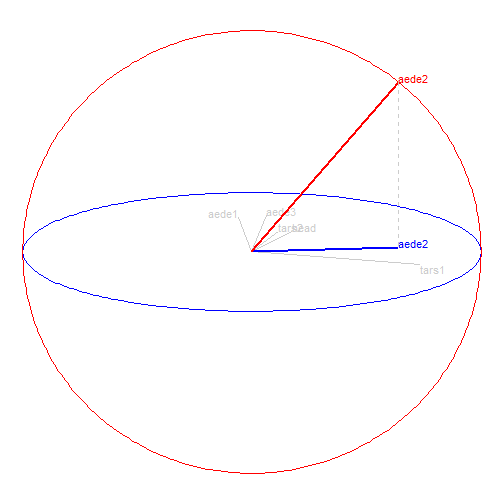
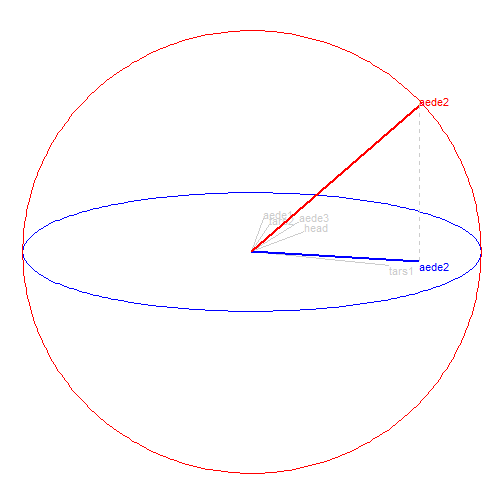
Wording, titles, RO2:4

diff --git a/slides_ns.html b/slides_ns.html
@@ -67,10 +67,10 @@ guided tour - optimizing holes index:
 
 # Research objectives
 
-- 1) Can user controlled steering (UCS) be utilized in an environment providing non-interactive animation?
-- 2) What benefits does UCS provide over popular alternatives?
+- 1) How can user-controlled steering (UCS) be generalized to work within graphic-specific environments for 2D projections?
+- 2) Does 2D UCS tours provide benefits over alternatives?
 - 3) How do we extend UCS to 3D?
-- 4) Does UCS with 3D displays provide perception benefits over 2D displays?
+- 4) Does UCS in 3D displays provide benefits over 2D displays?
 
 ---
 
@@ -79,7 +79,7 @@ guided tour - optimizing holes index:
 - Manual choice - *manual tour* user-controlled manipulation of a selected variable *Cook &amp; Buja 1997*
     - Used to explore the sensitivty of the structure to the variables contributing to the porjection
     
-*Work in progress &amp; paper to be submitted to the R Journal:*
+*Algorithm design, work in progress &amp; paper to be submitted to the R Journal:*
 - Algorithm generalising for consumption by graphic envirnments
 - R implementation via the package `spinifex`, available on [github.com/nspyrison/spinifex](https://github.com/nspyrison/spinifex)
     `devtools::install_github("nspyrison/spinifex")`
@@ -111,33 +111,33 @@ guided tour - optimizing holes index:
 &lt;tbody&gt;
   &lt;tr&gt;
    &lt;td style="text-align:left;"&gt; tars1 &lt;/td&gt;
-   &lt;td style="text-align:right;"&gt; 0.7334 &lt;/td&gt;
-   &lt;td style="text-align:right;"&gt; -0.2182 &lt;/td&gt;
+   &lt;td style="text-align:right;"&gt; 0.6011 &lt;/td&gt;
+   &lt;td style="text-align:right;"&gt; -0.2236 &lt;/td&gt;
   &lt;/tr&gt;
   &lt;tr&gt;
    &lt;td style="text-align:left;"&gt; tars2 &lt;/td&gt;
-   &lt;td style="text-align:right;"&gt; 0.1176 &lt;/td&gt;
-   &lt;td style="text-align:right;"&gt; 0.3492 &lt;/td&gt;
+   &lt;td style="text-align:right;"&gt; 0.0765 &lt;/td&gt;
+   &lt;td style="text-align:right;"&gt; 0.4579 &lt;/td&gt;
   &lt;/tr&gt;
   &lt;tr&gt;
    &lt;td style="text-align:left;"&gt; head &lt;/td&gt;
-   &lt;td style="text-align:right;"&gt; 0.1780 &lt;/td&gt;
-   &lt;td style="text-align:right;"&gt; 0.3475 &lt;/td&gt;
+   &lt;td style="text-align:right;"&gt; 0.2311 &lt;/td&gt;
+   &lt;td style="text-align:right;"&gt; 0.3425 &lt;/td&gt;
   &lt;/tr&gt;
   &lt;tr&gt;
    &lt;td style="text-align:left;"&gt; aede1 &lt;/td&gt;
-   &lt;td style="text-align:right;"&gt; -0.0610 &lt;/td&gt;
-   &lt;td style="text-align:right;"&gt; 0.5760 &lt;/td&gt;
+   &lt;td style="text-align:right;"&gt; 0.0481 &lt;/td&gt;
+   &lt;td style="text-align:right;"&gt; 0.5726 &lt;/td&gt;
   &lt;/tr&gt;
   &lt;tr&gt;
    &lt;td style="text-align:left;"&gt; aede2 &lt;/td&gt;
-   &lt;td style="text-align:right;"&gt; 0.6394 &lt;/td&gt;
-   &lt;td style="text-align:right;"&gt; 0.0832 &lt;/td&gt;
+   &lt;td style="text-align:right;"&gt; 0.7312 &lt;/td&gt;
+   &lt;td style="text-align:right;"&gt; -0.1567 &lt;/td&gt;
   &lt;/tr&gt;
   &lt;tr&gt;
    &lt;td style="text-align:left;"&gt; aede3 &lt;/td&gt;
-   &lt;td style="text-align:right;"&gt; 0.0641 &lt;/td&gt;
-   &lt;td style="text-align:right;"&gt; 0.6090 &lt;/td&gt;
+   &lt;td style="text-align:right;"&gt; 0.2062 &lt;/td&gt;
+   &lt;td style="text-align:right;"&gt; 0.5203 &lt;/td&gt;
   &lt;/tr&gt;
 &lt;/tbody&gt;
 &lt;/table&gt;
@@ -155,7 +155,7 @@ guided tour - optimizing holes index:
 
 .pull-right[
 &lt;br&gt;&lt;br&gt;
-- Use the Gram-Schmidt process to orthonormaliaze a dimension with a full contribution to the manipution variable
+- Orthonormaliaze a dimension with a full contribution to the manipution variable
 - This provides a means to rotate the basis out of the projection plane (for example, lifting paper off of the table rather than being confined to the surface)
 - Create a sequence of values for the 'out-of-plane' angle that will change the projection coeffienients of the variable
 ]
@@ -185,9 +185,9 @@ As an [html widget](https://nspyrison.netlify.com/thesis/flea_manualtour_mvar5/)
 
 ---
 
-# UCS Application -- Hadronic collision experiments
+# Application -- high erergy physics
 
-Particle physics data, `\(\textbf{X} \in \mathbb{R}^{56}\)`, *Wang, et al. 2018*, guided tours *Cook, et al. 2018*
+Hadronic collision experiment data, `\(\textbf{X} \in \mathbb{R}^{56}\)`, *Wang, et al. 2018*, studied with guided tours *Cook, et al. 2018*
 
 .pull-left[
 
@@ -201,7 +201,7 @@ Given:
 - Data summarized in 6 principal components, ~48% of the variation
 - Starting basis from previously published figures
 
-Results:
+Conclusion, PC6 is important for explaing structure features in the data:
 - When the contribution of PC6 is full, the plane of green points extends into the line of sight
 - When the contribution is zeroed, the line of purple points are approaching a head-on view
 ]
@@ -211,42 +211,53 @@ Results:
 
 # RO 2) What benefits does UCS provide over popular alternatives?
 
-*Future case study:*
+*Future performance comaparison measured across contemporary benchmark datasets*
 
-- Principal component analysis (PCA) 
+- Principal Component Analysis (PCA) 
     - The static linear transformation that produces linear combinations of the variables in descending order of variation explained
-- T-distributed stochastic neighbor embedding (tSNE)
-    - Static non-linear transformation preserves local proximity
-- User controlled steering (USC), manual tour
+- Multi-Dimensional Scaling
+    - Non-lieaner dimension reduction that compares pariwise distance bewteen observations
+- T-distributed Stochastic Neighbor Embedding (tSNE)
+    - Static non-linear transformation preserves local proximity and reduces relaive entropy.
+- User-controlled steering (USC), manual tour
     - Dynamic linear projections
+
+Measures: variation, variable tranparency, clustering, structure
+Design space: data sets, techniques, and measures of comparison
+
 
 ---
 
 # RO 3) How do we extend UCS to 3D?
 
 
-*future exploratory design*
+*future algorithm design*
 
-`spinifex` and Immersive Analytics Tool Kit, `IATK`, *Cordeil 2019*
+Extend UCS algorithm to 3D projections and integrate with Immersive Analytics Tool Kit, `IATK`, *Cordeil 2019* for common user interface acrross display device.
+
+- First for 3D scatterplots and then extended to mutli-dimensional function surfaces.
 
 .pull-left[
-&lt;img src="./images/DIS_mt.gif" width="70%" height="70%" style="display: block; margin: auto;" /&gt;
+&lt;img src="./images/f_mt.gif" width="70%" height="70%" style="display: block; margin: auto;" /&gt;
 ]
 
 .pull-right[
-&lt;img src="./images/IATK.png" width="70%" height="70%" style="display: block; margin: auto;" /&gt;
+&lt;img src="./images/RO3MockUp2.PNG" width="70%" height="70%" style="display: block; margin: auto;" /&gt;
 ]
 
 ---
 
 # RO 4) Does UCS in 3D displays provide benefits over 2D displays?
 
-*future empirical study*
+*future usability study* -- lineup desgin *Hofmann et al. 2012*
+
+&lt;img src="./images/hofmann12fig.PNG" width="70%" height="70%" style="display: block; margin: auto;" /&gt;
 
 **Design space:**
 - Display type: 2D monitor, 3D monitor, head-mount, physical immersion
-- Task type: structure, UCS, clustering, dimensionality, outliers
-- Measures: accuracy, speed, subjective measures (Likert scale), demographic information, cross-departmental comparison(?)
+- Task type: structure, UCS, clustering, dimensionality
+- Measures: accuracy, speed, confidence, preference, demographic information, VR and data visualization expertise
+
 
 ---
 
